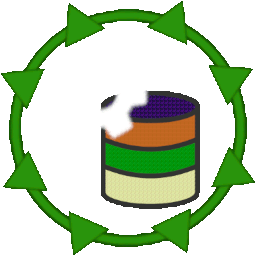
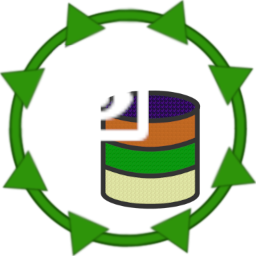
Deploying to gh-pages from @ Griefed/ServerPackCreator-Addons-Overview@1c92afb1cce290ed29bb54dd0f6a17a41b0f3fd6 🚀

diff --git a/js/app.91223b52.js b/js/app.91223b52.js
@@ -1,0 +1,1 @@
+(()=>{"use strict";var e={4001:(e,r,t)=>{t(5363),t(71);var o=t(8880),n=t(9592),a=t(3673);function i(e,r,t,o,n,i){const l=(0,a.up)("router-view");return(0,a.wg)(),(0,a.j4)(l)}const l=(0,a.aZ)({name:"App"});var c=t(4260);const s=(0,c.Z)(l,[["render",i]]),u=s;var d=t(7083),f=t(9582);const p=[{path:"/",component:()=>Promise.all([t.e(736),t.e(106)]).then(t.bind(t,7106)),children:[{path:"",component:()=>Promise.all([t.e(736),t.e(260)]).then(t.bind(t,5260))}]},{path:"/:catchAll(.*)*",component:()=>Promise.all([t.e(736),t.e(106)]).then(t.bind(t,7106)),children:[{path:"",component:()=>Promise.all([t.e(736),t.e(878)]).then(t.bind(t,6878))}]}],h=p,v=(0,d.BC)((function(){const e=f.r5,r=(0,f.p7)({scrollBehavior:()=>({left:0,top:0}),routes:h,history:e("")});return r}));async function b(e,r){const t="function"===typeof v?await v({}):v,o=e(u);return o.use(n.Z,r),{app:o,router:t}}var g=t(2426),m=t(7760),y=t(6417),w=t(6920),O=t(921),j=t(8416),k=t(2471);const C={config:{loadingBar:{color:"accent",size:"1px",position:"bottom"},brand:{primary:"#325358",secondary:"#c0ffee",accent:"#6a1a78",dark:"#1d1d1d",positive:"#21BA45",negative:"#C10015",info:"#31CCEC",warning:"#cea32b"}},lang:g.Z,iconSet:m.Z,plugins:{Notify:y.Z,Loading:w.Z,LoadingBar:O.Z,AppFullscreen:j.Z,Cookies:k.Z}},P="";async function _({app:e,router:r},t){let o=!1;const n=e=>{try{return r.resolve(e).href}catch(t){}return Object(e)===e?null:e},a=e=>{if(o=!0,"string"===typeof e&&/^https?:\/\//.test(e))return void(window.location.href=e);const r=n(e);null!==r&&(window.location.href=r,window.location.reload())},i=window.location.href.replace(window.location.origin,"");for(let c=0;!1===o&&c<t.length;c++)try{await t[c]({app:e,router:r,ssrContext:null,redirect:a,urlPath:i,publicPath:P})}catch(l){return l&&l.url?void a(l.url):void console.error("[Quasar] boot error:",l)}!0!==o&&(e.use(r),e.mount("#q-app"))}b(o.ri,C).then((e=>Promise.all([Promise.resolve().then(t.bind(t,5474))]).then((r=>{const t=r.map((e=>e.default)).filter((e=>"function"===typeof e));_(e,t)}))))},5474:(e,r,t)=>{t.r(r),t.d(r,{default:()=>l,github:()=>i});var o=t(7083),n=t(52),a=t.n(n);const i=a().create({baseURL:"https://api.github.com/repos/"}),l=(0,o.xr)((({app:e})=>{e.config.globalProperties.$axios=a(),e.config.globalProperties.$github=i}))}},r={};function t(o){var n=r[o];if(void 0!==n)return n.exports;var a=r[o]={exports:{}};return e[o](a,a.exports,t),a.exports}t.m=e,(()=>{var e=[];t.O=(r,o,n,a)=>{if(!o){var i=1/0;for(u=0;u<e.length;u++){for(var[o,n,a]=e[u],l=!0,c=0;c<o.length;c++)(!1&a||i>=a)&&Object.keys(t.O).every((e=>t.O[e](o[c])))?o.splice(c--,1):(l=!1,a<i&&(i=a));if(l){e.splice(u--,1);var s=n();void 0!==s&&(r=s)}}return r}a=a||0;for(var u=e.length;u>0&&e[u-1][2]>a;u--)e[u]=e[u-1];e[u]=[o,n,a]}})(),(()=>{t.n=e=>{var r=e&&e.__esModule?()=>e["default"]:()=>e;return t.d(r,{a:r}),r}})(),(()=>{var e,r=Object.getPrototypeOf?e=>Object.getPrototypeOf(e):e=>e.__proto__;t.t=function(o,n){if(1&n&&(o=this(o)),8&n)return o;if("object"===typeof o&&o){if(4&n&&o.__esModule)return o;if(16&n&&"function"===typeof o.then)return o}var a=Object.create(null);t.r(a);var i={};e=e||[null,r({}),r([]),r(r)];for(var l=2&n&&o;"object"==typeof l&&!~e.indexOf(l);l=r(l))Object.getOwnPropertyNames(l).forEach((e=>i[e]=()=>o[e]));return i["default"]=()=>o,t.d(a,i),a}})(),(()=>{t.d=(e,r)=>{for(var o in r)t.o(r,o)&&!t.o(e,o)&&Object.defineProperty(e,o,{enumerable:!0,get:r[o]})}})(),(()=>{t.f={},t.e=e=>Promise.all(Object.keys(t.f).reduce(((r,o)=>(t.f[o](e,r),r)),[]))})(),(()=>{t.u=e=>"js/"+e+"."+{106:"89bbdd8c",260:"c93cdff9",878:"76ed3dc5"}[e]+".js"})(),(()=>{t.miniCssF=e=>"css/"+({143:"app",736:"vendor"}[e]||e)+"."+{106:"18da852e",143:"31d6cfe0",260:"af29f6e0",736:"bc6b4d38",878:"618cd258"}[e]+".css"})(),(()=>{t.g=function(){if("object"===typeof globalThis)return globalThis;try{return this||new Function("return this")()}catch(e){if("object"===typeof window)return window}}()})(),(()=>{t.o=(e,r)=>Object.prototype.hasOwnProperty.call(e,r)})(),(()=>{var e={},r="serverpackcreator-addons-overview:";t.l=(o,n,a,i)=>{if(e[o])e[o].push(n);else{var l,c;if(void 0!==a)for(var s=document.getElementsByTagName("script"),u=0;u<s.length;u++){var d=s[u];if(d.getAttribute("src")==o||d.getAttribute("data-webpack")==r+a){l=d;break}}l||(c=!0,l=document.createElement("script"),l.charset="utf-8",l.timeout=120,t.nc&&l.setAttribute("nonce",t.nc),l.setAttribute("data-webpack",r+a),l.src=o),e[o]=[n];var f=(r,t)=>{l.onerror=l.onload=null,clearTimeout(p);var n=e[o];if(delete e[o],l.parentNode&&l.parentNode.removeChild(l),n&&n.forEach((e=>e(t))),r)return r(t)},p=setTimeout(f.bind(null,void 0,{type:"timeout",target:l}),12e4);l.onerror=f.bind(null,l.onerror),l.onload=f.bind(null,l.onload),c&&document.head.appendChild(l)}}})(),(()=>{t.r=e=>{"undefined"!==typeof Symbol&&Symbol.toStringTag&&Object.defineProperty(e,Symbol.toStringTag,{value:"Module"}),Object.defineProperty(e,"__esModule",{value:!0})}})(),(()=>{t.p=""})(),(()=>{var e=(e,r,t,o)=>{var n=document.createElement("link");n.rel="stylesheet",n.type="text/css";var a=a=>{if(n.onerror=n.onload=null,"load"===a.type)t();else{var i=a&&("load"===a.type?"missing":a.type),l=a&&a.target&&a.target.href||r,c=new Error("Loading CSS chunk "+e+" failed.\n("+l+")");c.code="CSS_CHUNK_LOAD_FAILED",c.type=i,c.request=l,n.parentNode.removeChild(n),o(c)}};return n.onerror=n.onload=a,n.href=r,document.head.appendChild(n),n},r=(e,r)=>{for(var t=document.getElementsByTagName("link"),o=0;o<t.length;o++){var n=t[o],a=n.getAttribute("data-href")||n.getAttribute("href");if("stylesheet"===n.rel&&(a===e||a===r))return n}var i=document.getElementsByTagName("style");for(o=0;o<i.length;o++){n=i[o],a=n.getAttribute("data-href");if(a===e||a===r)return n}},o=o=>new Promise(((n,a)=>{var i=t.miniCssF(o),l=t.p+i;if(r(i,l))return n();e(o,l,n,a)})),n={143:0};t.f.miniCss=(e,r)=>{var t={106:1,260:1,878:1};n[e]?r.push(n[e]):0!==n[e]&&t[e]&&r.push(n[e]=o(e).then((()=>{n[e]=0}),(r=>{throw delete n[e],r})))}})(),(()=>{var e={143:0};t.f.j=(r,o)=>{var n=t.o(e,r)?e[r]:void 0;if(0!==n)if(n)o.push(n[2]);else{var a=new Promise(((t,o)=>n=e[r]=[t,o]));o.push(n[2]=a);var i=t.p+t.u(r),l=new Error,c=o=>{if(t.o(e,r)&&(n=e[r],0!==n&&(e[r]=void 0),n)){var a=o&&("load"===o.type?"missing":o.type),i=o&&o.target&&o.target.src;l.message="Loading chunk "+r+" failed.\n("+a+": "+i+")",l.name="ChunkLoadError",l.type=a,l.request=i,n[1](l)}};t.l(i,c,"chunk-"+r,r)}},t.O.j=r=>0===e[r];var r=(r,o)=>{var n,a,[i,l,c]=o,s=0;if(i.some((r=>0!==e[r]))){for(n in l)t.o(l,n)&&(t.m[n]=l[n]);if(c)var u=c(t)}for(r&&r(o);s<i.length;s++)a=i[s],t.o(e,a)&&e[a]&&e[a][0](),e[a]=0;return t.O(u)},o=self["webpackChunkserverpackcreator_addons_overview"]=self["webpackChunkserverpackcreator_addons_overview"]||[];o.forEach(r.bind(null,0)),o.push=r.bind(null,o.push.bind(o))})();var o=t.O(void 0,[736],(()=>t(4001)));o=t.O(o)})();

diff --git a/js/106.89bbdd8c.js b/js/106.89bbdd8c.js
@@ -1,0 +1,1 @@
+(self["webpackChunkserverpackcreator_addons_overview"]=self["webpackChunkserverpackcreator_addons_overview"]||[]).push([[106],{7106:(e,t,a)=>{"use strict";a.r(t),a.d(t,{default:()=>x});var i=a(3673),l=a(2323),s=a(7745),o=a.n(s);const r=(0,i._)("img",{alt:"ServerPackCreator Addons Overview Logo",src:o(),style:{width:"42px",height:"42px"}},null,-1),n=(0,i._)("b",null,"ServerPackCreator Addons Overview",-1),d={class:"col"},c={class:"full-height full-width"};function u(e,t,a,s,o,u){const p=(0,i.up)("q-toolbar-title"),m=(0,i.up)("q-separator"),g=(0,i.up)("q-tooltip"),v=(0,i.up)("q-btn"),h=(0,i.up)("q-toolbar"),b=(0,i.up)("q-header"),f=(0,i.up)("router-view"),_=(0,i.up)("q-scroll-area"),k=(0,i.up)("q-page"),w=(0,i.up)("q-page-container"),q=(0,i.up)("q-layout");return(0,i.wg)(),(0,i.j4)(q,{view:"lHh Lpr lFf"},{default:(0,i.w5)((()=>[(0,i.Wm)(b,{elevated:""},{default:(0,i.w5)((()=>[(0,i.Wm)(h,null,{default:(0,i.w5)((()=>[r,(0,i.Wm)(p,null,{default:(0,i.w5)((()=>[n])),_:1}),(0,i.Wm)(m,{style:{"margin-left":"5px","margin-right":"5px"}}),(0,i.Wm)(v,{icon:this.$q.dark.isActive?"nights_stay":"wb_sunny",class:"q-mr-xs",dense:"",onClick:t[0]||(t[0]=t=>e.toggleDarkMode())},{default:(0,i.w5)((()=>[(0,i.Wm)(g,{disable:this.$q.platform.is.mobile},{default:(0,i.w5)((()=>[(0,i.Uk)((0,l.zw)(this.$q.dark.isActive?"Deactivate Dark Mode":"Activate Dark Mode"),1)])),_:1},8,["disable"])])),_:1},8,["icon"]),(0,i.Wm)(m,{style:{"margin-left":"5px","margin-right":"5px"}}),this.$q.platform.is.mobile?(0,i.kq)("",!0):((0,i.wg)(),(0,i.j4)(v,{key:0,icon:this.$q.fullscreen.isActive?"fullscreen_exit":"fullscreen",class:"q-mr-xs",dense:"",onClick:t[1]||(t[1]=e=>this.$q.fullscreen.toggle())},{default:(0,i.w5)((()=>[(0,i.Wm)(g,{disable:this.$q.platform.is.mobile},{default:(0,i.w5)((()=>[(0,i.Uk)((0,l.zw)(this.$q.fullscreen.isActive?"Exit Fullscreen":"Toggle Fullscreen"),1)])),_:1},8,["disable"])])),_:1},8,["icon"]))])),_:1})])),_:1}),(0,i.Wm)(w,null,{default:(0,i.w5)((()=>[(0,i.Wm)(k,{class:"row no-wrap"},{default:(0,i.w5)((()=>[(0,i._)("div",d,[(0,i._)("div",c,[(0,i.Wm)(_,{class:"full-height full-width page"},{default:(0,i.w5)((()=>[(0,i._)("div",{id:"particles-js",class:(0,l.C_)(this.$q.dark.isActive?"dark_gradient":"normal_gradient")},null,2),(0,i.Wm)(f)])),_:1})])])])),_:1})])),_:1})])),_:1})}var p=a(1959),m=a(6250);const g=(0,i.aZ)({name:"MainLayout",setup(){return{viewInfo:(0,p.iH)(!1)}},methods:{toggleDarkMode(){this.$q.dark.toggle(),this.$q.cookies.set("dark.isActive",this.$q.dark.isActive)}},mounted(){this.$q.dark.set(this.$q.cookies.get("dark.isActive")),m.S6.load("particles-js",{fpsLimit:30,particles:{number:{value:50,density:{enable:!0,value_area:800}},color:{value:["#325358","#C0FFEE","#31CCEC","#6A1A78"]},shape:{type:["circle","triangle","edge","polygon"],stroke:{width:0,color:["#325358","#C0FFEE","#31CCEC","#6A1A78"]},polygon:{nb_sides:6}},opacity:{value:1,random:!0,anim:{enable:!0,speed:1,opacity_min:.1,sync:!1}},size:{value:3.5,random:!0,anim:{enable:!0,speed:1,size_min:.1,sync:!1}},links:{enable:!0,distance:150,color:"#C0FFEE",opacity:.4,width:1},move:{enable:!0,speed:1.5,direction:"right",random:!0,straight:!1,outModes:{default:"out",bottom:"out",left:"out",right:"out",top:"out"},bounce:!1}},interactivity:{detect_on:"canvas",events:{onhover:{enable:!0,mode:["bubble","grab"]},onclick:{enable:!0,mode:"push"},resize:!0},modes:{grab:{distance:140,line_linked:{opacity:1}},bubble:{distance:200,size:4,duration:5,opacity:1,speed:.1},push:{particles_nb:4}}},retina_detect:!0})}});var v=a(4260),h=a(9214),b=a(3812),f=a(9570),_=a(3747),k=a(5869),w=a(522),q=a(1784),y=a(2652),C=a(4379),A=a(1232),$=a(7518),W=a.n($);const Z=(0,v.Z)(g,[["render",u]]),x=Z;W()(g,"components",{QLayout:h.Z,QHeader:b.Z,QToolbar:f.Z,QToolbarTitle:_.Z,QSeparator:k.Z,QBtn:w.Z,QTooltip:q.Z,QPageContainer:y.Z,QPage:C.Z,QScrollArea:A.Z})},7745:(e,t,a)=>{e.exports=a.p+"img/icon.266f7a26.png"}}]);

diff --git a/index.html b/index.html
@@ -1,1 +1,1 @@
-<!DOCTYPE html><html><head><title>ServerPackCreator Addons Overview</title><meta charset=utf-8><meta name=description content="Listing for all officially acknowledged addons/plugins for ServerPackCreator."><meta name=format-detection content="telephone=no"><meta name=msapplication-tap-highlight content=no><meta name=viewport content="user-scalable=no,initial-scale=1,maximum-scale=1,minimum-scale=1,width=device-width"><link rel=icon type=image/png sizes=128x128 href=icons/favicon-128x128.png><link rel=icon type=image/png sizes=96x96 href=icons/favicon-96x96.png><link rel=icon type=image/png sizes=32x32 href=icons/favicon-32x32.png><link rel=icon type=image/png sizes=16x16 href=icons/favicon-16x16.png><link rel=icon type=image/ico href=favicon.ico><script defer src=js/vendor.67ad5404.js></script><script defer src=js/app.0d735585.js></script><link href=css/vendor.bc6b4d38.css rel=stylesheet><link href=css/app.31d6cfe0.css rel=stylesheet></head><body><div id=q-app></div></body></html>
+<!DOCTYPE html><html><head><title>ServerPackCreator Addons Overview</title><meta charset=utf-8><meta name=description content="Listing for all officially acknowledged addons/plugins for ServerPackCreator."><meta name=format-detection content="telephone=no"><meta name=msapplication-tap-highlight content=no><meta name=viewport content="user-scalable=no,initial-scale=1,maximum-scale=1,minimum-scale=1,width=device-width"><link rel=icon type=image/png sizes=128x128 href=icons/favicon-128x128.png><link rel=icon type=image/png sizes=96x96 href=icons/favicon-96x96.png><link rel=icon type=image/png sizes=32x32 href=icons/favicon-32x32.png><link rel=icon type=image/png sizes=16x16 href=icons/favicon-16x16.png><link rel=icon type=image/ico href=favicon.ico><script defer src=js/vendor.67ad5404.js></script><script defer src=js/app.91223b52.js></script><link href=css/vendor.bc6b4d38.css rel=stylesheet><link href=css/app.31d6cfe0.css rel=stylesheet></head><body><div id=q-app></div></body></html>
